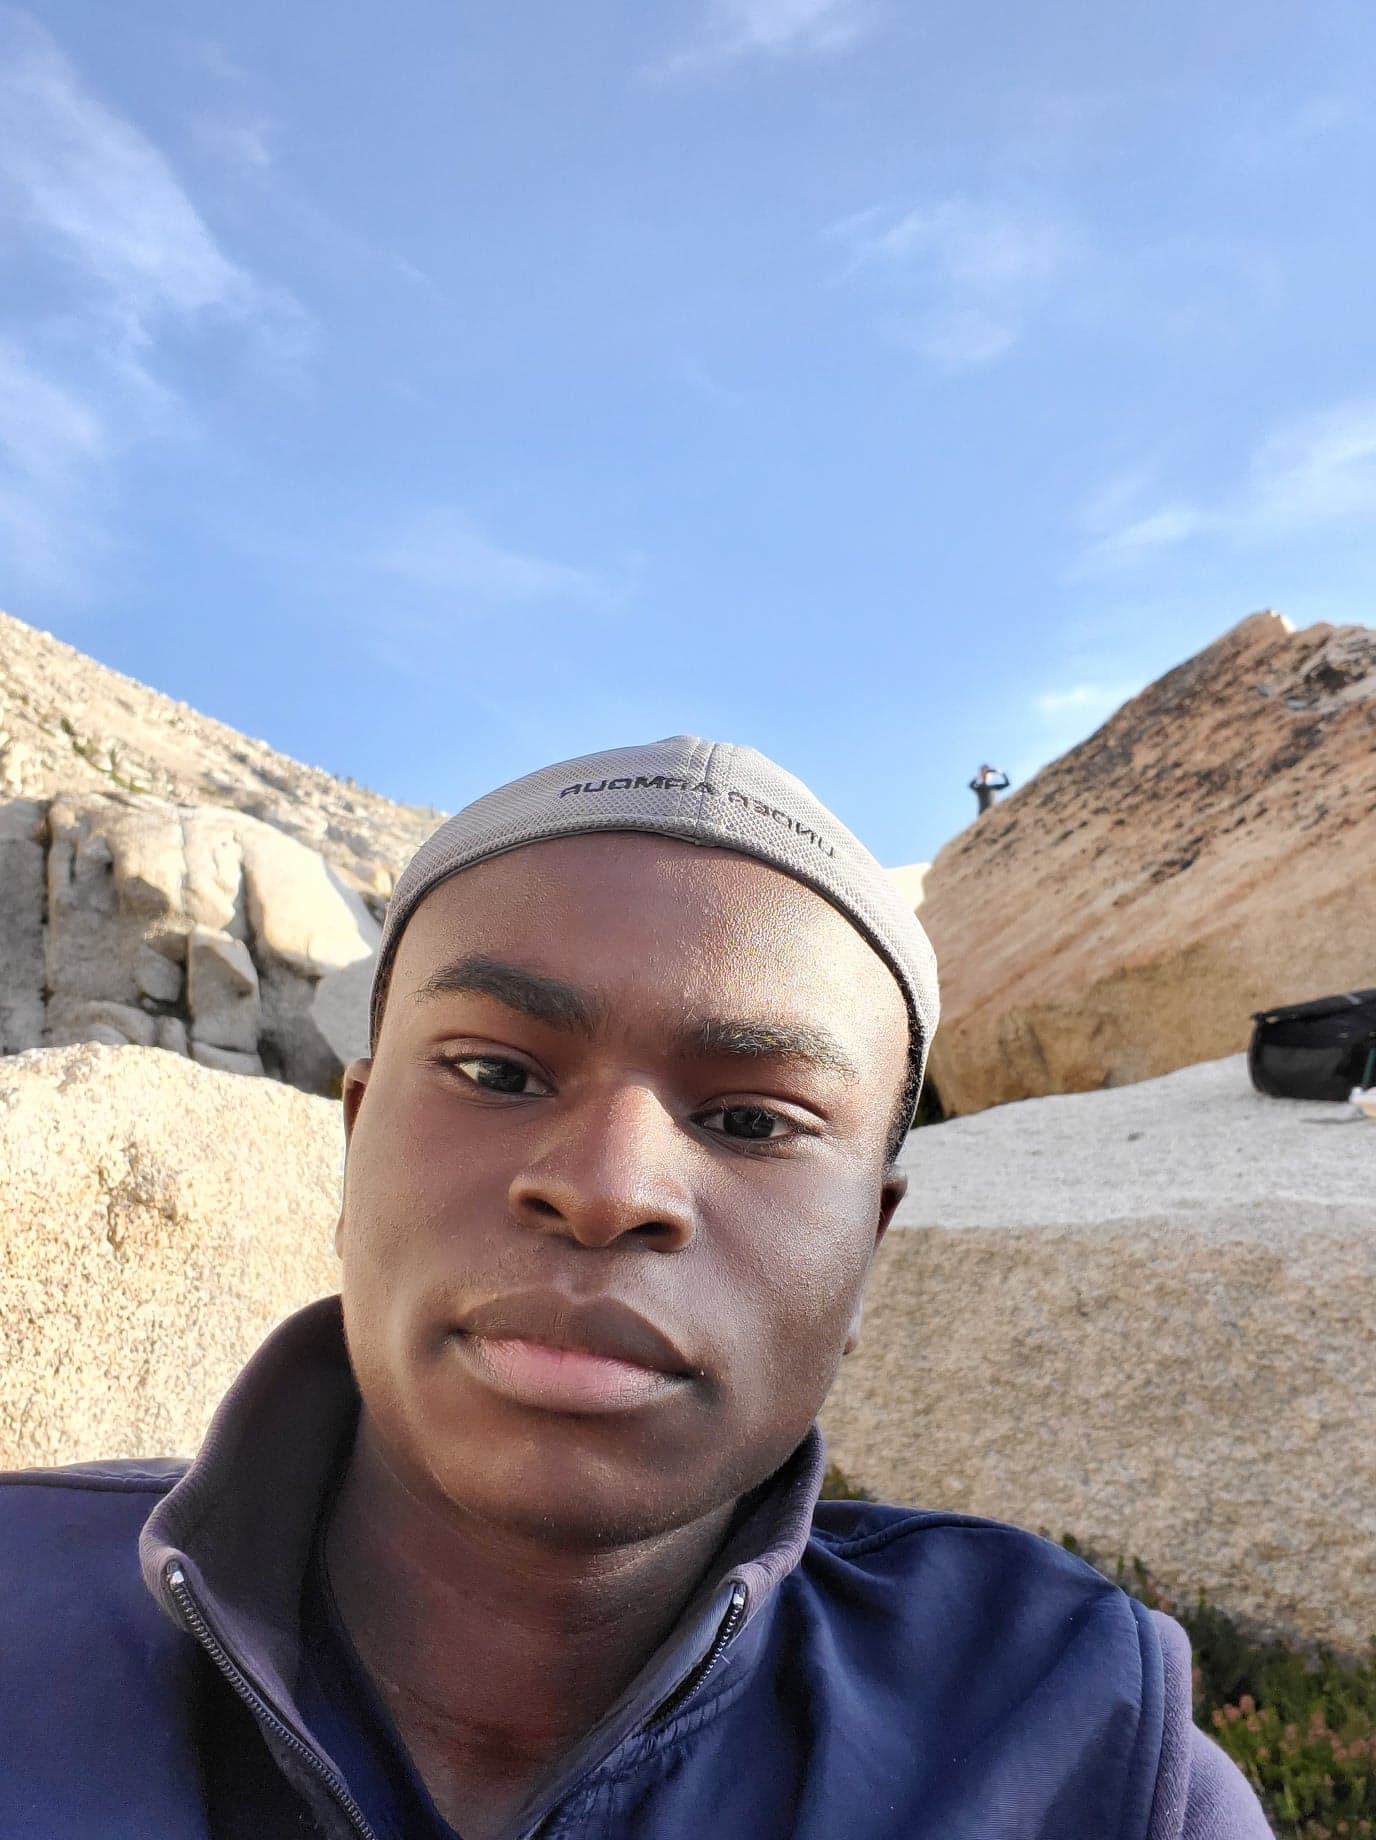
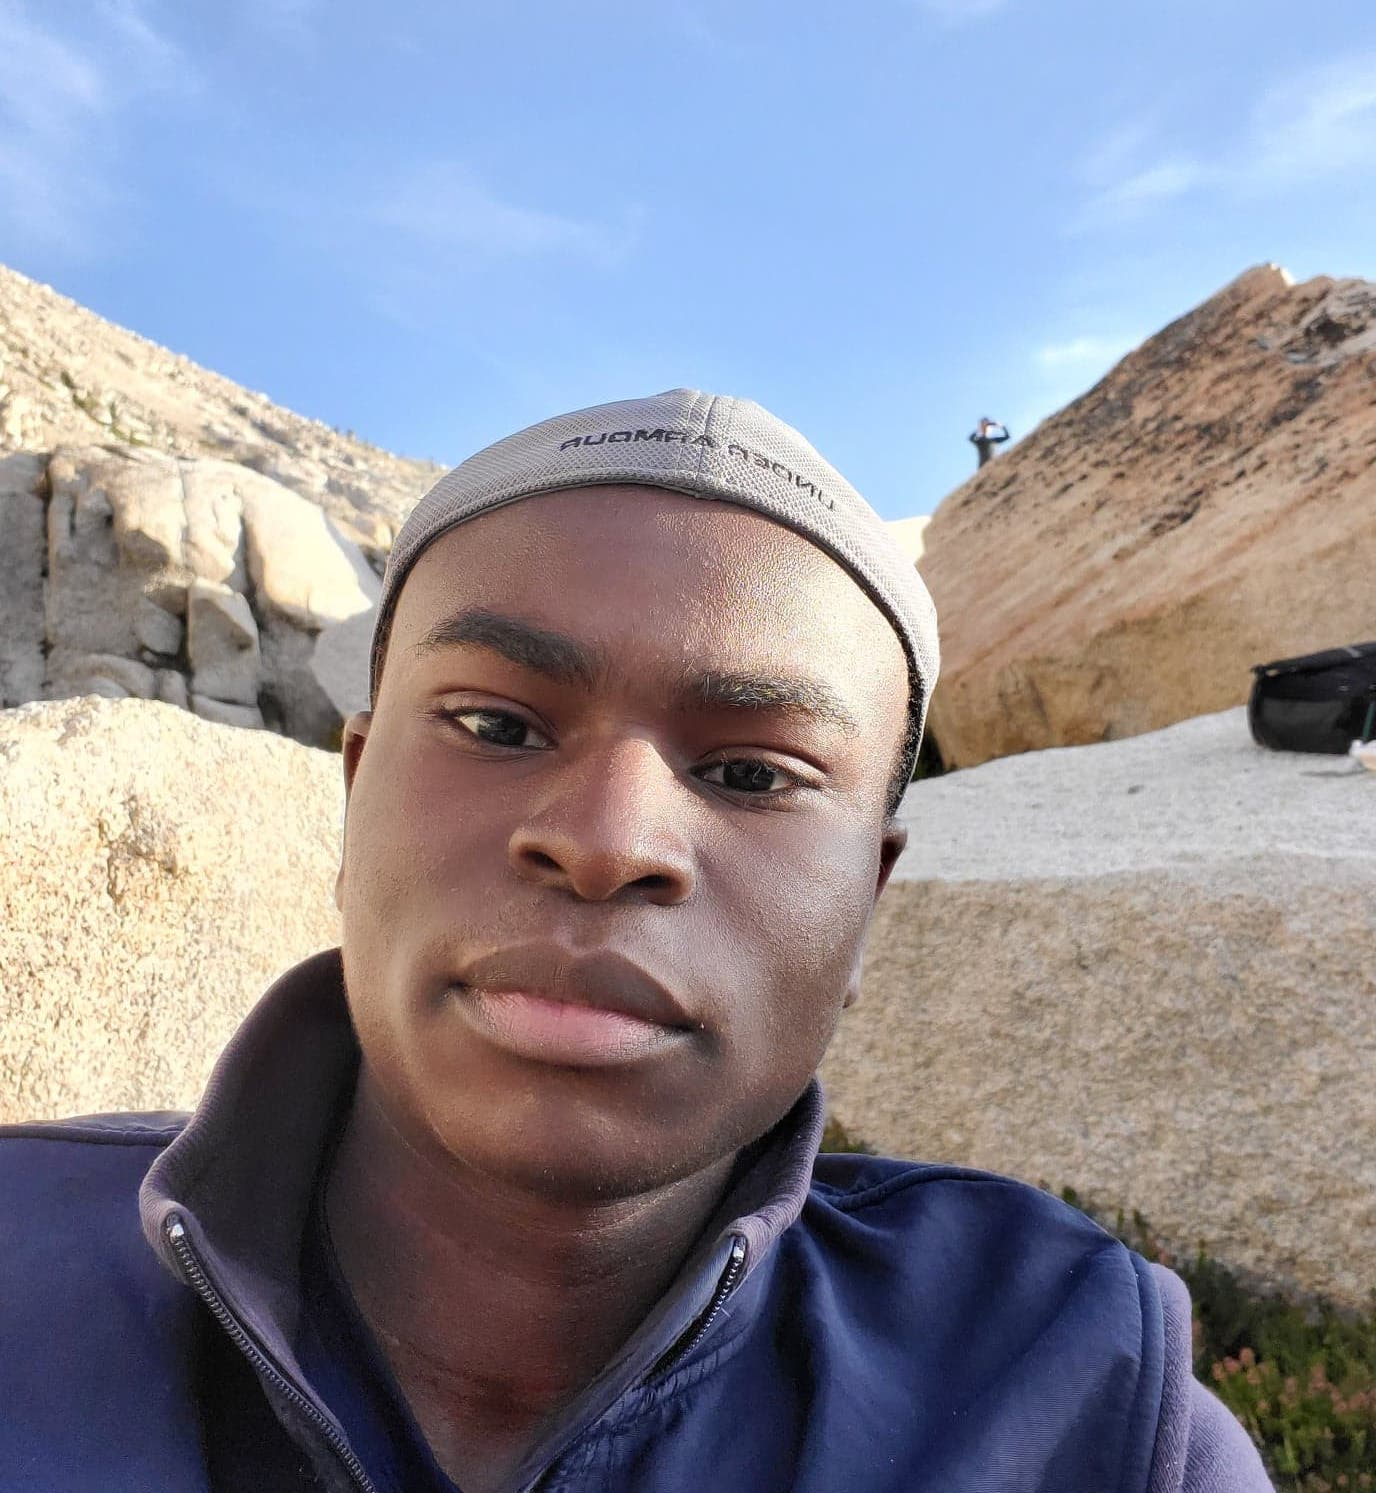
Update urls, and crop images

diff --git a/src/sections/People/data.ts b/src/sections/People/data.ts
@@ -118,8 +118,9 @@ export const SEPeople = [
     name: 'Ravindu Angammana',
     image: RavinduAngammana,
     quote: '',
-    contact:
-      'ravindu.angammana@gmail.com, https://www.linkedin.com/in/ravindu-angammana/',
+    contact: 'ravindu-angammana',
+    link: 'https://www.linkedin.com/in/ravindu-angammana/',
+    linkedIn: true,
     location: 'Toronto',
   },
   {
@@ -249,8 +250,9 @@ export const SEPeople = [
     name: 'Abhishek Dhakla',
     image: AbhishekDhakla,
     quote: 'Tomatoes are a fruit!',
-    contact:
-      'abhishekdhakla@gmail.com | https://www.linkedin.com/in/abhishek-dhakla/',
+    contact: 'abhishek-dhakla',
+    link: 'https://www.linkedin.com/in/abhishek-dhakla/',
+    linkedIn: true,
     location: 'Vancouver',
   },
   {
@@ -465,7 +467,9 @@ export const SEPeople = [
     image: AngeloLao,
     quote:
       "I'm very glad that the lack of OOP friendship was accounted for by a different kind of class friendship <3 Hope to see y'all soon!",
-    contact: 'www.facebook.com/angelo.lao.90 ; www.linkedin.com/in/angelo-lao',
+    contact: 'angelo-lao',
+    link: 'https://www.linkedin.com/in/angelo-lao',
+    linkedIn: true,
     location: 'Toronto',
   },
   {
@@ -565,8 +569,8 @@ export const SEPeople = [
     name: 'Heather Musson',
     image: HeatherMusson,
     quote: 'I promise this is the last time I bother you about the yearbook',
-    contact: 'heather-m-004517122',
-    link: 'https://www.linkedin.com/in/heather-m-004517122/',
+    contact: 'heather-musson',
+    link: 'https://www.linkedin.com/in/heather-musson',
     linkedIn: true,
     location: 'Seattle, WA',
   },
@@ -680,8 +684,9 @@ export const SEPeople = [
     image: YeliangShou,
     quote:
       'Hello friends, SE was a fun time and I think we all met some pretty cool people. Let’s stay in touch!',
-    contact:
-      'https://www.linkedin.com/in/yeliang-shou/, yeliang.shou@gmail.com',
+    contact: 'yeliang-shou',
+    link: 'https://www.linkedin.com/in/yeliang-shou/',
+    linkedIn: true,
     location: 'New York',
   },
   {
@@ -707,7 +712,9 @@ export const SEPeople = [
     name: 'Joseph Tafese',
     image: JosephTafese,
     quote: `"Simplicity & Elegance take hard work to achieve and education to be appreciated" - Dijkstra ' - Derek Rayside (1A)`,
-    contact: 'https://www.linkedin.com/in/jetafese, j.tafese@aol.com',
+    contact: 'jetafese',
+    link: 'https://www.linkedin.com/in/jetafese',
+    linkedIn: true,
     location: 'Doing a PhD in Formal Verification @ uWaterloo',
   },
   {
@@ -884,6 +891,7 @@ export const SEPeople = [
     image: RobbieZhuang,
     quote: '',
     contact: 'facebook.com/robbie.zhuang',
+    link: 'https://facebook.com/robbie.zhuang',
     location: 'SF & Seattle',
   },
 ];
